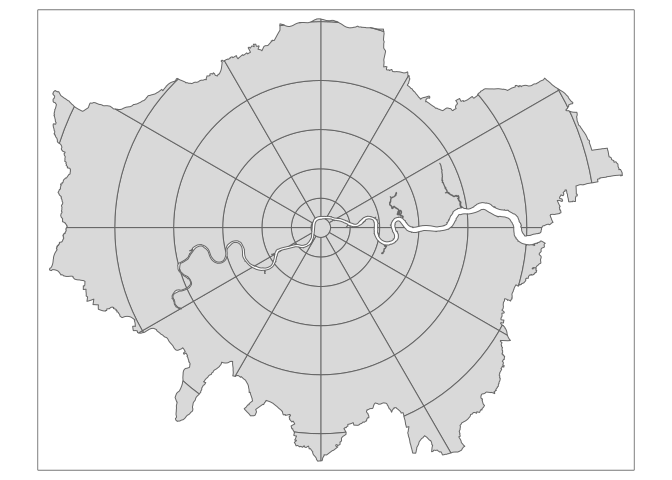
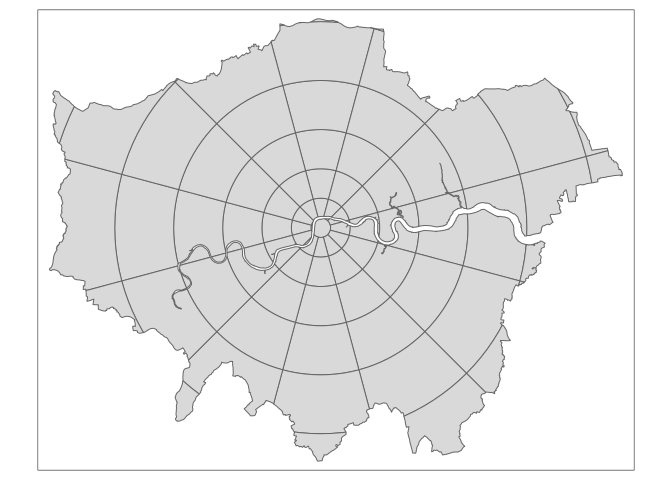
Update readme - figures

diff --git a/README.md b/README.md
@@ -9,12 +9,13 @@
 status](https://travis-ci.org/zonebuilders/zonebuilder.svg?branch=master)](https://travis-ci.org/zonebuilders/zonebuilder)
 <!-- badges: end -->
 
-The goal of zonebuilder is to break up large regions into manageable
-zones for research and applied transport planning, to support the global
-transition away from fossil fuels in the transport sector, and towards
-more healthy modes of transport like walking, cycling and renewable
-electricity-powered public
-transport.
+The goal of zonebuilder is to break up large geographic regions such as
+cities into manageable zones. Zoning systems are important in many
+fields, including transport planning, where we hope to use the zones
+generated by `zonebuilder` to build the evidence base needed to enable
+uptake of healthy modes of transport like walking, cycling and renewable
+electricity-powered public transport. See its website at
+[zonebuilders.github.io/zonebuilder](https://zonebuilders.github.io/zonebuilder/).
 
 ## Installation
 
@@ -25,7 +26,7 @@ Install it from [GitHub](https://github.com/) with:
 ``` r
 # install.packages("devtools")
 devtools::install_github("robinlovelace/zonebuilder")
-#> Skipping install of 'zonebuilder' from a github remote, the SHA1 (e5bfb1aa) has not changed since last install.
+#> Skipping install of 'zonebuilder' from a github remote, the SHA1 (17e7530b) has not changed since last install.
 #>   Use `force = TRUE` to force installation
 ```
 
@@ -90,15 +91,15 @@ z
 #> First 10 features:
 #>    circle_id segment_id label                       geometry
 #> 1          1          1     A MULTIPOLYGON (((532101.7 17...
-#> 2          2          1   B01 MULTIPOLYGON (((531601.7 18...
-#> 3          2         10   B10 POLYGON ((528101.7 179704.5...
-#> 4          2         11   B11 POLYGON ((528503.6 181204.5...
-#> 5          2         12   B12 POLYGON ((529601.7 182302.6...
-#> 6          2          2   B02 MULTIPOLYGON (((531967.7 18...
-#> 7          2          3   B03 MULTIPOLYGON (((532101.7 17...
-#> 8          2          4   B04 POLYGON ((534101.7 179704.5...
-#> 9          2          5   B05 POLYGON ((533699.8 178204.5...
-#> 10         2          6   B06 POLYGON ((532601.7 177106.4...
+#> 2          2          1   B01 POLYGON ((530325.3 182602.3...
+#> 3          2         10   B10 POLYGON ((528203.9 178928, ...
+#> 4          2         11   B11 POLYGON ((528203.9 180481, ...
+#> 5          2         12   B12 POLYGON ((528980.4 181825.8...
+#> 6          2          2   B02 MULTIPOLYGON (((531808.8 18...
+#> 7          2          3   B03 MULTIPOLYGON (((532067.6 17...
+#> 8          2          4   B04 MULTIPOLYGON (((534101.7 17...
+#> 9          2          5   B05 POLYGON ((533999.5 178928, ...
+#> 10         2          6   B06 POLYGON ((533223 177583.2, ...
 qtm(z)
 ```
 
@@ -110,8 +111,8 @@ documented in the help pages and an in-progress academic paper.
 ``` r
 args(zb_zone)
 #> function (x = NULL, point = NULL, n_circles = NULL, n_segments = 12, 
-#>     distance = 1, distance_growth = 1, starting_angle = 0, segment_center = FALSE, 
-#>     intersection = TRUE) 
+#>     distance = 1, distance_growth = 1, starting_angle = -15, 
+#>     segment_center = FALSE, intersection = TRUE) 
 #> NULL
 ```
 
